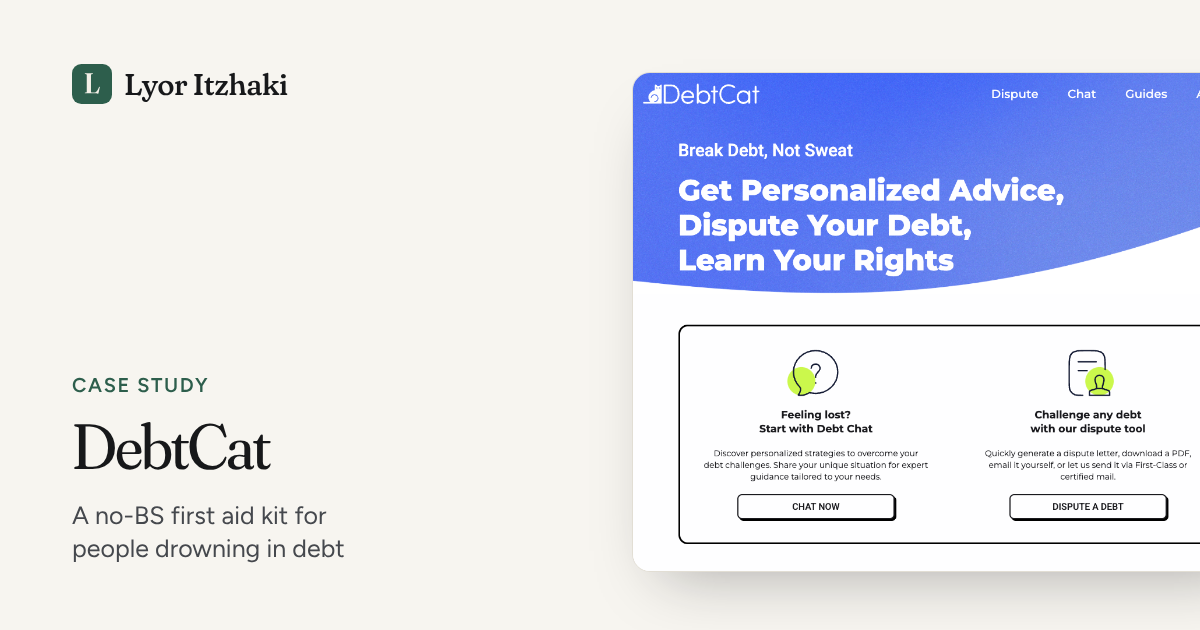
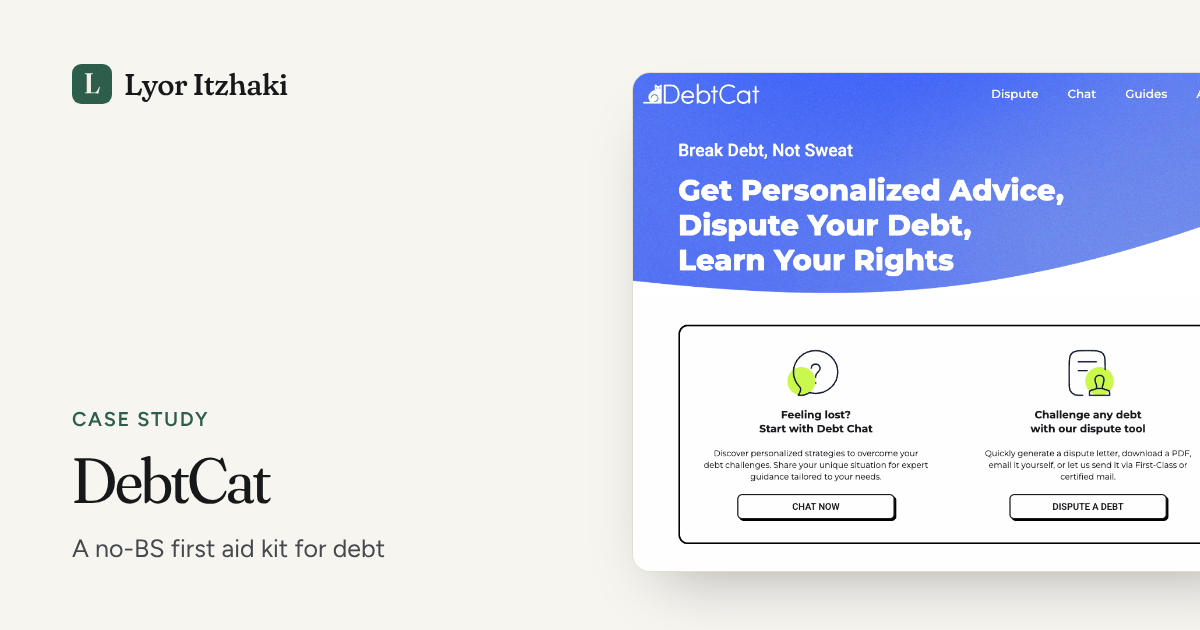
Shorter, problem-first case study titles; FindMePet states its success metric upfront
Claude-Session: https://claude.ai/code/session_01TcshGvUTEgrB2wc9t4wNBb

Changed region(s): [[0.0617, 0.6032, 0.3083, 0.9048]]

diff --git a/blog/findmepet/index.html b/blog/findmepet/index.html
@@ -16,7 +16,7 @@
     <meta property="og:site_name" content="Lyor Itzhaki">
     <meta property="og:locale" content="en_US">
     <meta property="og:url" content="https://lyori.com/blog/findmepet">
-    <meta property="og:title" content="FindMePet: Using AI to Solve the Pet Adoption Mismatch Problem">
+    <meta property="og:title" content="FindMePet: Fixing Pet Adoption Mismatches">
     <meta property="og:description" content="How I built FindMePet, an AI-powered pet adoption app that matched people with adoptable pets to reduce returns to shelters.">
     <meta property="og:image" content="https://lyori.com/images/og/findmepet.png">
     <meta property="og:image:width" content="1200">
@@ -27,7 +27,7 @@
     <meta property="article:tag" content="AI">
     <meta property="article:tag" content="Consumer">
     <meta name="twitter:card" content="summary_large_image">
-    <meta name="twitter:title" content="FindMePet: Using AI to Solve the Pet Adoption Mismatch Problem">
+    <meta name="twitter:title" content="FindMePet: Fixing Pet Adoption Mismatches">
     <meta name="twitter:description" content="How I built FindMePet, an AI-powered pet adoption app that matched people with adoptable pets to reduce returns to shelters.">
     <meta name="twitter:image" content="https://lyori.com/images/og/findmepet.png">
     <meta name="twitter:image:alt" content="FindMePet, a case study by Lyor Itzhaki">
@@ -35,7 +35,7 @@
     {
       "@context": "https://schema.org",
       "@type": "Article",
-      "headline": "FindMePet: Using AI to Solve the Pet Adoption Mismatch Problem",
+      "headline": "FindMePet: Fixing Pet Adoption Mismatches",
       "description": "How I built FindMePet, an AI-powered pet adoption app that matched people with adoptable pets to reduce returns to shelters.",
       "image": "https://lyori.com/images/og/findmepet.png",
       "datePublished": "2025-01-01",
@@ -98,7 +98,7 @@
     <main id="main">
         <article class="article wrap">
             <p class="article-eyebrow"><a href="/blog">Case study</a><span>AI, Consumer</span></p>
-            <h1 class="article-title">FindMePet: Using AI to Solve the Pet Adoption Mismatch Problem</h1>
+            <h1 class="article-title">FindMePet: Fixing Pet Adoption Mismatches</h1>
             <p class="article-dek">Building an AI pet adoption app that matches people with pets that fit their lives, so fewer pets go back to shelters.</p>
             <div class="article-byline">
                 <img src="/images/lyor-480.jpg" alt="" class="avatar" width="44" height="44">
@@ -120,6 +120,8 @@
 <p>Too many adoptions don't work out. Between 10 and 20% of adopted pets go back to shelters. Mismatched expectations and behavior issues are common reasons.</p>
 <p>A University of Alberta study found 80% of adopters choose mostly on looks rather than fit. Meanwhile, 34% of pet owners buy from breeders, and 47% wrongly believe shelters only have older or poorly trained animals.</p>
 <p>I adopted my dog Shasta and saw how hard the process is. I wanted fewer returns by making better matches from the start.</p>
+<h2>What success looked like</h2>
+<p>The north star was successful adoptions: pets who find permanent homes. On day one, clicks on the Adopt button were the signal I could measure.</p>
 <h2>Key decisions</h2>
 <p>A focused MVP shipped fast beats a perfect product shipped late. So I made hard cuts:</p>
 <ul>
@@ -141,7 +143,7 @@
 <figcaption>The pet details page gives people what they need to decide.</figcaption>
 </figure>
 <h2>Results</h2>
-<p>The north star was successful adoptions. Early on, I tracked clicks on the Adopt button as the leading signal. Next on the list were richer lifestyle questions, a top three with comparisons, funnel analytics, and follow-ups to confirm real adoptions.</p>
+<p>The MVP shipped with a tight scope and tracked Adopt clicks from launch. Next on the list were richer lifestyle questions, a top three with comparisons, funnel analytics, and follow-ups to confirm real adoptions.</p>
 <p>I retired FindMePet in December 2025, after the PetFinder API it depended on went away.</p>
 <h2>Takeaways</h2>
 <ul>
@@ -165,7 +167,7 @@
                         <div class="case-image">
                             <img src="/assets/images/ts_policy_watcher_thumb.png" alt="Trust &amp; Safety Policy Watcher dashboard" width="1200" height="675" loading="lazy" decoding="async">
                         </div>
-                        <h3 class="case-title">Trust &amp; Safety Policy Watcher: Know Within Hours When Live Shopping Rules Change</h3>
+                        <h3 class="case-title">T&amp;S Policy Watcher: Know When Live Shopping Rules Change</h3>
                         <p class="case-excerpt">Turning manual competitor policy checks into an AI system that watches 25+ policies and flags what changed.</p>
                         <span class="link-arrow">Read the case study <span aria-hidden="true">&rarr;</span></span>
                     </a>
@@ -175,7 +177,7 @@
                         <div class="case-image">
                             <img src="/assets/images/debtcat_cover.png" alt="DebtCat home page" width="1200" height="600" loading="lazy" decoding="async">
                         </div>
-                        <h3 class="case-title">DebtCat: Building a No-BS First Aid Kit for People Drowning in Debt</h3>
+                        <h3 class="case-title">DebtCat: A No-BS First Aid Kit for Debt</h3>
                         <p class="case-excerpt">A free tool that helps people understand their rights and dispute unfair debt collection.</p>
                         <span class="link-arrow">Read the case study <span aria-hidden="true">&rarr;</span></span>
                     </a>

diff --git a/blog/trust-safety-policy-watcher/index.html b/blog/trust-safety-policy-watcher/index.html
@@ -16,7 +16,7 @@
     <meta property="og:site_name" content="Lyor Itzhaki">
     <meta property="og:locale" content="en_US">
     <meta property="og:url" content="https://lyori.com/blog/trust-safety-policy-watcher">
-    <meta property="og:title" content="Trust &amp; Safety Policy Watcher: Know Within Hours When Live Shopping Rules Change">
+    <meta property="og:title" content="T&amp;S Policy Watcher: Know When Live Shopping Rules Change">
     <meta property="og:description" content="How I turned manual competitor policy checks into an automated AI system that monitors 25+ Trust &amp; Safety policies and sends product teams concise summaries.">
     <meta property="og:image" content="https://lyori.com/images/og/trust-safety-policy-watcher.png">
     <meta property="og:image:width" content="1200">
@@ -27,7 +27,7 @@
     <meta property="article:tag" content="Trust &amp; Safety">
     <meta property="article:tag" content="AI automation">
     <meta name="twitter:card" content="summary_large_image">
-    <meta name="twitter:title" content="Trust &amp; Safety Policy Watcher: Know Within Hours When Live Shopping Rules Change">
+    <meta name="twitter:title" content="T&amp;S Policy Watcher: Know When Live Shopping Rules Change">
     <meta name="twitter:description" content="How I turned manual competitor policy checks into an automated AI system that monitors 25+ Trust &amp; Safety policies and sends product teams concise summaries.">
     <meta name="twitter:image" content="https://lyori.com/images/og/trust-safety-policy-watcher.png">
     <meta name="twitter:image:alt" content="Trust &amp; Safety Policy Watcher, a case study by Lyor Itzhaki">
@@ -35,7 +35,7 @@
     {
       "@context": "https://schema.org",
       "@type": "Article",
-      "headline": "Trust & Safety Policy Watcher: Know Within Hours When Live Shopping Rules Change",
+      "headline": "T&S Policy Watcher: Know When Live Shopping Rules Change",
       "description": "How I turned manual competitor policy checks into an automated AI system that monitors 25+ Trust & Safety policies and sends product teams concise summaries.",
       "image": "https://lyori.com/images/og/trust-safety-policy-watcher.png",
       "datePublished": "2025-01-11",
@@ -98,7 +98,7 @@
     <main id="main">
         <article class="article wrap">
             <p class="article-eyebrow"><a href="/blog">Case study</a><span>Trust &amp; Safety, AI automation</span></p>
-            <h1 class="article-title">Trust &amp; Safety Policy Watcher: Know Within Hours When Live Shopping Rules Change</h1>
+            <h1 class="article-title">T&amp;S Policy Watcher: Know When Live Shopping Rules Change</h1>
             <p class="article-dek">How I turned manual competitor policy checks into an automated AI system that watches 25+ Trust &amp; Safety policies and tells product teams what changed.</p>
             <div class="article-byline">
                 <img src="/images/lyor-480.jpg" alt="" class="avatar" width="44" height="44">
@@ -182,7 +182,7 @@
                         <div class="case-image">
                             <img src="/assets/images/debtcat_cover.png" alt="DebtCat home page" width="1200" height="600" loading="lazy" decoding="async">
                         </div>
-                        <h3 class="case-title">DebtCat: Building a No-BS First Aid Kit for People Drowning in Debt</h3>
+                        <h3 class="case-title">DebtCat: A No-BS First Aid Kit for Debt</h3>
                         <p class="case-excerpt">A free tool that helps people understand their rights and dispute unfair debt collection.</p>
                         <span class="link-arrow">Read the case study <span aria-hidden="true">&rarr;</span></span>
                     </a>
@@ -192,7 +192,7 @@
                         <div class="case-image">
                             <img src="/assets/images/shasta_cover.png" alt="FindMePet landing page featuring Shasta" width="1200" height="600" loading="lazy" decoding="async">
                         </div>
-                        <h3 class="case-title">FindMePet: Using AI to Solve the Pet Adoption Mismatch Problem</h3>
+                        <h3 class="case-title">FindMePet: Fixing Pet Adoption Mismatches</h3>
                         <p class="case-excerpt">An AI pet adoption app that matches people with pets that fit their lives.</p>
                         <span class="link-arrow">Read the case study <span aria-hidden="true">&rarr;</span></span>
                     </a>

diff --git a/blog/debtcat/index.html b/blog/debtcat/index.html
@@ -16,7 +16,7 @@
     <meta property="og:site_name" content="Lyor Itzhaki">
     <meta property="og:locale" content="en_US">
     <meta property="og:url" content="https://lyori.com/blog/debtcat">
-    <meta property="og:title" content="DebtCat: Building a No-BS First Aid Kit for People Drowning in Debt">
+    <meta property="og:title" content="DebtCat: A No-BS First Aid Kit for Debt">
     <meta property="og:description" content="How a former debt collection product manager built DebtCat, giving consumers insider knowledge and clear steps to challenge unfair debt collection.">
     <meta property="og:image" content="https://lyori.com/images/og/debtcat.png">
     <meta property="og:image:width" content="1200">
@@ -27,7 +27,7 @@
     <meta property="article:tag" content="Fintech">
     <meta property="article:tag" content="Consumer">
     <meta name="twitter:card" content="summary_large_image">
-    <meta name="twitter:title" content="DebtCat: Building a No-BS First Aid Kit for People Drowning in Debt">
+    <meta name="twitter:title" content="DebtCat: A No-BS First Aid Kit for Debt">
     <meta name="twitter:description" content="How a former debt collection product manager built DebtCat, giving consumers insider knowledge and clear steps to challenge unfair debt collection.">
     <meta name="twitter:image" content="https://lyori.com/images/og/debtcat.png">
     <meta name="twitter:image:alt" content="DebtCat, a case study by Lyor Itzhaki">
@@ -35,7 +35,7 @@
     {
       "@context": "https://schema.org",
       "@type": "Article",
-      "headline": "DebtCat: Building a No-BS First Aid Kit for People Drowning in Debt",
+      "headline": "DebtCat: A No-BS First Aid Kit for Debt",
       "description": "How a former debt collection product manager built DebtCat, giving consumers insider knowledge and clear steps to challenge unfair debt collection.",
       "image": "https://lyori.com/images/og/debtcat.png",
       "datePublished": "2025-01-11",
@@ -98,7 +98,7 @@
     <main id="main">
         <article class="article wrap">
             <p class="article-eyebrow"><a href="/blog">Case study</a><span>Fintech, Consumer</span></p>
-            <h1 class="article-title">DebtCat: Building a No-BS First Aid Kit for People Drowning in Debt</h1>
+            <h1 class="article-title">DebtCat: A No-BS First Aid Kit for Debt</h1>
             <p class="article-dek">How a former debt collection product manager built a free tool that helps people understand their rights and dispute unfair collections.</p>
             <div class="article-byline">
                 <img src="/images/lyor-480.jpg" alt="" class="avatar" width="44" height="44">
@@ -184,7 +184,7 @@
                         <div class="case-image">
                             <img src="/assets/images/ts_policy_watcher_thumb.png" alt="Trust &amp; Safety Policy Watcher dashboard" width="1200" height="675" loading="lazy" decoding="async">
                         </div>
-                        <h3 class="case-title">Trust &amp; Safety Policy Watcher: Know Within Hours When Live Shopping Rules Change</h3>
+                        <h3 class="case-title">T&amp;S Policy Watcher: Know When Live Shopping Rules Change</h3>
                         <p class="case-excerpt">Turning manual competitor policy checks into an AI system that watches 25+ policies and flags what changed.</p>
                         <span class="link-arrow">Read the case study <span aria-hidden="true">&rarr;</span></span>
                     </a>
@@ -194,7 +194,7 @@
                         <div class="case-image">
                             <img src="/assets/images/shasta_cover.png" alt="FindMePet landing page featuring Shasta" width="1200" height="600" loading="lazy" decoding="async">
                         </div>
-                        <h3 class="case-title">FindMePet: Using AI to Solve the Pet Adoption Mismatch Problem</h3>
+                        <h3 class="case-title">FindMePet: Fixing Pet Adoption Mismatches</h3>
                         <p class="case-excerpt">An AI pet adoption app that matches people with pets that fit their lives.</p>
                         <span class="link-arrow">Read the case study <span aria-hidden="true">&rarr;</span></span>
                     </a>

diff --git a/blog/index.html b/blog/index.html
@@ -37,19 +37,19 @@
       "hasPart": [
         {
           "@type": "Article",
-          "headline": "Trust & Safety Policy Watcher: Know Within Hours When Live Shopping Rules Change",
+          "headline": "T&S Policy Watcher: Know When Live Shopping Rules Change",
           "url": "https://lyori.com/blog/trust-safety-policy-watcher",
           "datePublished": "2025-01-11"
         },
         {
           "@type": "Article",
-          "headline": "DebtCat: Building a No-BS First Aid Kit for People Drowning in Debt",
+          "headline": "DebtCat: A No-BS First Aid Kit for Debt",
           "url": "https://lyori.com/blog/debtcat",
           "datePublished": "2025-01-11"
         },
         {
           "@type": "Article",
-          "headline": "FindMePet: Using AI to Solve the Pet Adoption Mismatch Problem",
+          "headline": "FindMePet: Fixing Pet Adoption Mismatches",
           "url": "https://lyori.com/blog/findmepet",
           "datePublished": "2025-01-01"
         }
@@ -112,7 +112,7 @@
                         <div class="case-image">
                             <img src="/assets/images/ts_policy_watcher_thumb.png" alt="Trust &amp; Safety Policy Watcher dashboard" width="1200" height="675" loading="lazy" decoding="async">
                         </div>
-                        <h2 class="case-title">Trust &amp; Safety Policy Watcher: Know Within Hours When Live Shopping Rules Change</h2>
+                        <h2 class="case-title">T&amp;S Policy Watcher: Know When Live Shopping Rules Change</h2>
                         <p class="case-date">January 11, 2025</p>
                         <p class="case-excerpt">Turning manual competitor policy checks into an AI system that watches 25+ policies and flags what changed.</p>
                         <span class="link-arrow">Read the case study <span aria-hidden="true">&rarr;</span></span>
@@ -123,7 +123,7 @@
                         <div class="case-image">
                             <img src="/assets/images/debtcat_cover.png" alt="DebtCat home page" width="1200" height="600" loading="lazy" decoding="async">
                         </div>
-                        <h2 class="case-title">DebtCat: Building a No-BS First Aid Kit for People Drowning in Debt</h2>
+                        <h2 class="case-title">DebtCat: A No-BS First Aid Kit for Debt</h2>
                         <p class="case-date">January 11, 2025</p>
                         <p class="case-excerpt">A free tool that helps people understand their rights and dispute unfair debt collection.</p>
                         <span class="link-arrow">Read the case study <span aria-hidden="true">&rarr;</span></span>
@@ -134,7 +134,7 @@
                         <div class="case-image">
                             <img src="/assets/images/shasta_cover.png" alt="FindMePet landing page featuring Shasta" width="1200" height="600" loading="lazy" decoding="async">
                         </div>
-                        <h2 class="case-title">FindMePet: Using AI to Solve the Pet Adoption Mismatch Problem</h2>
+                        <h2 class="case-title">FindMePet: Fixing Pet Adoption Mismatches</h2>
                         <p class="case-date">January 1, 2025</p>
                         <p class="case-excerpt">An AI pet adoption app that matches people with pets that fit their lives.</p>
                         <span class="link-arrow">Read the case study <span aria-hidden="true">&rarr;</span></span>

diff --git a/index.html b/index.html
@@ -342,7 +342,7 @@
                         <div class="case-image">
                             <img src="/assets/images/ts_policy_watcher_thumb.png" alt="Trust &amp; Safety Policy Watcher dashboard" loading="lazy">
                         </div>
-                        <h3 class="case-title">Trust &amp; Safety Policy Watcher: Know Within Hours When Live Shopping Rules Change</h3>
+                        <h3 class="case-title">T&amp;S Policy Watcher: Know When Live Shopping Rules Change</h3>
                         <p class="case-excerpt">Turning manual competitor policy checks into an AI system that watches 25+ policies and flags what changed.</p>
                         <span class="link-arrow">Read the case study <span aria-hidden="true">&rarr;</span></span>
                     </a>
@@ -352,7 +352,7 @@
                         <div class="case-image">
                             <img src="/assets/images/debtcat_cover.png" alt="DebtCat home page" loading="lazy">
                         </div>
-                        <h3 class="case-title">DebtCat: Building a No-BS First Aid Kit for People Drowning in Debt</h3>
+                        <h3 class="case-title">DebtCat: A No-BS First Aid Kit for Debt</h3>
                         <p class="case-excerpt">A free tool that helps people understand their rights and dispute unfair debt collection.</p>
                         <span class="link-arrow">Read the case study <span aria-hidden="true">&rarr;</span></span>
                     </a>
